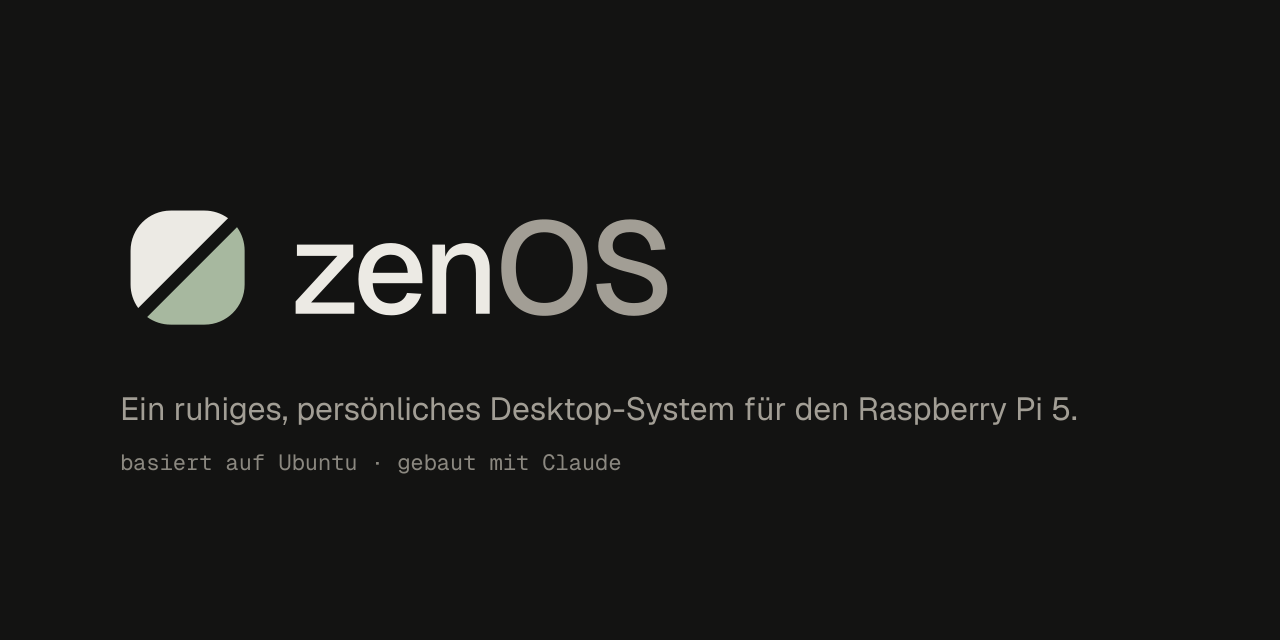
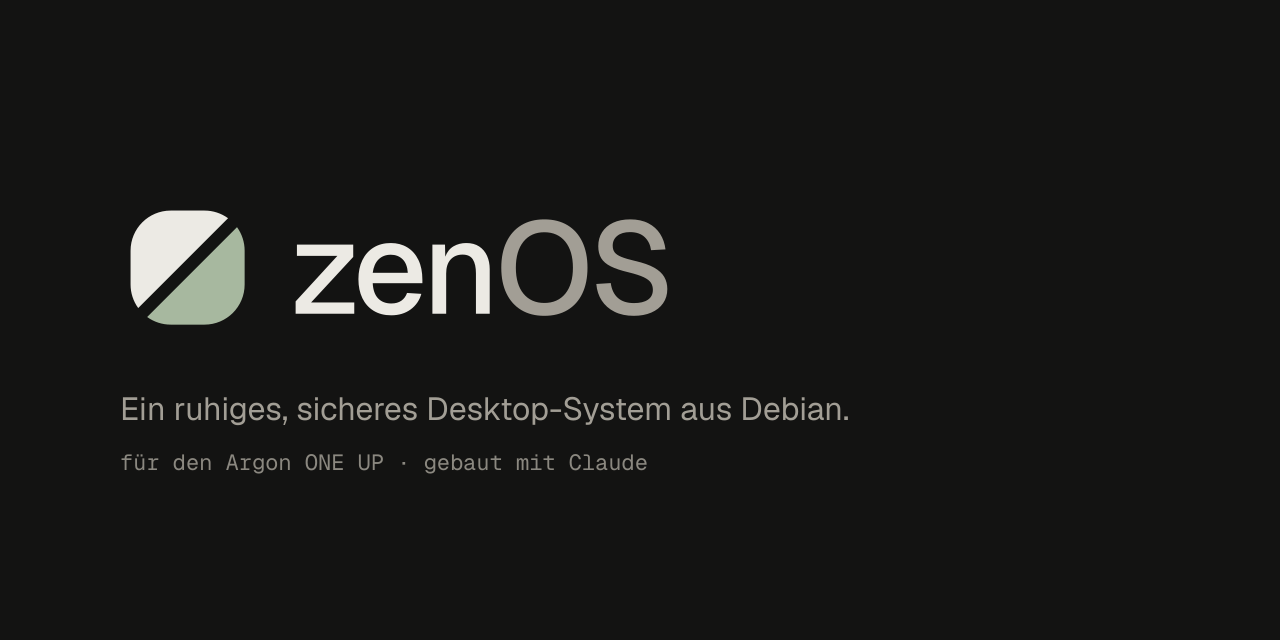
zeichen: Vorschaubild sagt Debian und Argon statt Ubuntu und Pi 5
Zeilen des GitHub-Vorschaubilds für 1.0: «Ein ruhiges, sicheres Desktop-System aus Debian.» und
«für den Argon ONE UP · gebaut mit Claude». Neu erzeugt mit erzeugen.py (fontTools, rsvg-convert);
die Website nimmt dasselbe Bild als og.png.

Changed region(s): [[0.2188, 0.625, 0.8438, 0.6562], [0.0938, 0.6875, 0.5, 0.75]]

diff --git a/assets/zeichen/erzeugen.py b/assets/zeichen/erzeugen.py
@@ -46,13 +46,13 @@ VORSCHAU = {
     "links": 120,
     "schriftzug": {"groesse": 130, "oben": 200},
     "unterzeile": {
-        "text": "Ein ruhiges, persönliches Desktop-System für den Raspberry Pi 5.",
+        "text": "Ein ruhiges, sicheres Desktop-System aus Debian.",
         "schrift": "Geist-Regular.ttf",
         "groesse": 32,
         "grundlinie": 420,
     },
     "monozeile": {
-        "text": "basiert auf Ubuntu · gebaut mit Claude",
+        "text": "für den Argon ONE UP · gebaut mit Claude",
         "schrift": "GeistMono-Regular.ttf",
         "groesse": 22,
         "grundlinie": 470,
